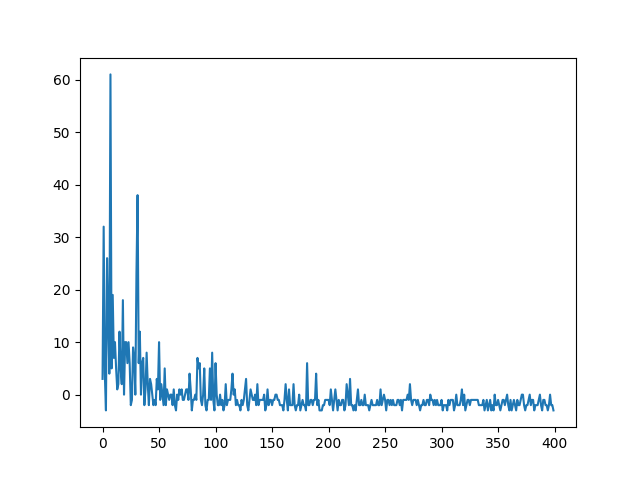
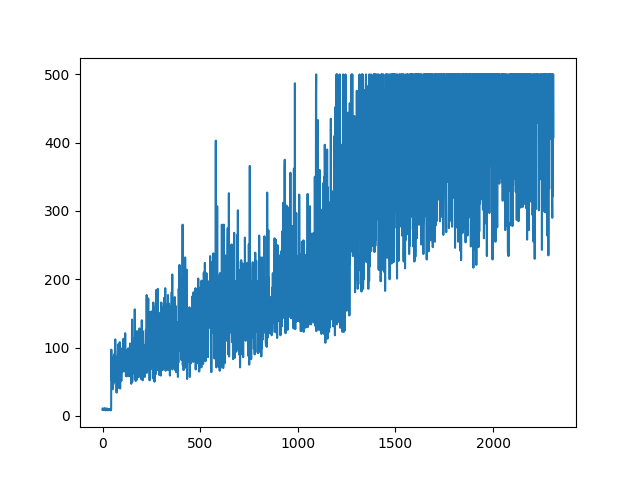
complete PPO

diff --git a/RL/PPO.py b/RL/PPO.py
@@ -4,37 +4,47 @@ import torch.nn as nn
 import torch.nn.functional as F
 import matplotlib.pyplot as plt
 from collections import deque
-import copy
 import gym
+from torch.utils.data.sampler import BatchSampler, SubsetRandomSampler
 
 
-device = torch.device("cuda:1" if torch.cuda.is_available() else "cpu")
+device = torch.device("cuda" if torch.cuda.is_available() else "cpu")
+
+def orthogonal_init(layer,gain=1.0):
+    nn.init.orthogonal_(layer.weight,gain=gain)
+    nn.init.constant_(layer.bias,0)
 
 class actor(nn.Module):
     def __init__(self,input_dim, ouput_dim,mid_dim = 128) -> None:
         super(actor,self).__init__()
-        self.net = nn.Sequential(
-            nn.Linear(input_dim,mid_dim),
-            nn.ReLU(),
-            nn.Linear(mid_dim,ouput_dim),
-            nn.ReLU()
-        )
+        self.linear1 = nn.Linear(input_dim,mid_dim)
+        self.linear2 = nn.Linear(mid_dim,mid_dim)
+        self.linear3 = nn.Linear(mid_dim,ouput_dim)
+        self.active = nn.ReLU()
+        orthogonal_init(self.linear1)
+        orthogonal_init(self.linear2)
+        orthogonal_init(self.linear3)
     def forward(self,x):
-        x = self.net(x)
-        probs = F.softmax(x,dim=1)
+        x = self.active(self.linear1(x))
+        x = self.active(self.linear2(x))
+        x = self.linear3(x)
+        probs = torch.softmax(x,dim=1)
         return probs
 
 class critic(nn.Module):
     def __init__(self,input_dim, ouput_dim,mid_dim = 128) -> None:
         super(critic,self).__init__()
-        self.net = nn.Sequential(
-            nn.Linear(input_dim,mid_dim),
-            nn.ReLU(),
-            nn.Linear(mid_dim,ouput_dim),
-            nn.ReLU()
-        )
+        self.linear1 = nn.Linear(input_dim,mid_dim)
+        self.linear2 = nn.Linear(mid_dim,mid_dim)
+        self.linear3 = nn.Linear(mid_dim,ouput_dim)
+        self.active = nn.ReLU()
+        orthogonal_init(self.linear1)
+        orthogonal_init(self.linear2)
+        orthogonal_init(self.linear3)
     def forward(self,x):
-        x = self.net(x)
+        x = self.active(self.linear1(x))
+        x = self.active(self.linear2(x))
+        x = self.linear3(x)
         return x
 class replay_buffer:
     def __init__(self,maxlen:int) -> None:
@@ -55,23 +65,30 @@ class PPO:
     def __init__(self,
                  action_space:int, 
                  state_space:int,  
+                 max_train_steps,
                  gamma = 0.99,
-                 update_freq = 512,
-                 epoch_num = 4,
-                 learning_rate = 1e-3,
+                 update_freq = 1024,
+                 mini_batch = 256,
+                 epoch_num = 10,
+                 learning_rate = 1e-4,
                  eplison_max = 0.2,
+                 lamda = 0.96,
                  entropy_coef = 0.01):
         self.actor = actor(state_space,action_space).to(device)
         self.critic = critic(state_space,1).to(device)
-        self.actor_optimizer = torch.optim.Adam(self.actor.parameters(), lr=learning_rate)
-        self.critic_optimizer = torch.optim.Adam(self.critic.parameters(),lr=learning_rate)
-        self.buffer = replay_buffer(100000)
+        self.actor_optimizer = torch.optim.Adam(self.actor.parameters(), lr=learning_rate,eps=1e-5)
+        self.critic_optimizer = torch.optim.Adam(self.critic.parameters(),lr=learning_rate,eps=1e-5)
+        self.buffer = replay_buffer(2048)
         self.gamma = gamma
-        self.update_freq = update_freq
+        self.batch_size = update_freq
         self.eplison_max = eplison_max
         self.epoch_num = epoch_num
         self.step = 0
         self.entropy_coef = entropy_coef
+        self.lamda = 0.96
+        self.lr = learning_rate
+        self.max_train_steps = max_train_steps
+        self.mini_batch = mini_batch
     def sample_action(self, state):
         state = torch.tensor(state, dtype=torch.float32,device=device).unsqueeze(dim=0)
         probs = self.actor(state)
@@ -79,95 +96,111 @@ class PPO:
         action = dist.sample()
         self.step += 1
         return action.item(), dist.log_prob(action).detach()
+    def evaluate(self, s):  # When evaluating the policy, we select the action with the highest probability
+        s = torch.unsqueeze(torch.tensor(s, dtype=torch.float,device=device), 0)
+        a_prob = self.actor(s).detach().cpu().numpy().flatten()
+        a = np.argmax(a_prob)
+        return a
     def update(self):
-        if not (self.step % self.update_freq == 0):
+        if not (self.step % self.batch_size == 0):
             return
-        # sample the action
-        old_states,next_state, old_actions, rewards,old_log_probs, old_next_states,  dones = self.buffer.sample()
+        # init
+        old_states,next_state, old_actions, rewards,old_log_probs,  dones = self.buffer.sample()
         old_states = torch.tensor(np.array(old_states), dtype=torch.float32, device=device)
         old_log_probs = torch.tensor(old_log_probs, device=device, dtype=torch.float32)
         old_actions = torch.tensor(np.array(old_actions),dtype=torch.float32,device=device)
         dones = torch.tensor(np.array(dones),dtype=torch.bool,device=device)
         next_state = torch.tensor(np.array(next_state),dtype=torch.float32,device=device)
         rewards = torch.tensor(np.array(rewards),dtype=torch.float32,device=device)
-        # calculate estimate reward
         
-        returns = self.critic(next_state).detach() * self.gamma + rewards
-        #normalize
-        returns = (returns - returns.mean()) / (returns.std() + 1e-8)
+        # calculate estimate reward
+        returns = []
+        gae = 0
+        with torch.no_grad():
+            values_state = self.critic(old_states)
+            values_next_state = self.critic(next_state)
+            deltas = rewards + self.gamma * values_next_state - values_state
+            for delta, done in zip(reversed(deltas.flatten().cpu().numpy()), reversed(dones.flatten().cpu().numpy())):
+                gae = delta + self.gamma * self.lamda * gae * (~done)
+                returns.insert(0,gae)
+            returns = torch.tensor(np.array(returns),dtype=torch.float32,device=device).view(-1,1)
+            value_target = returns + values_state
+            #normalize
+            returns = (returns - returns.mean()) / (returns.std() + 1e-8)
         for _ in range(self.epoch_num):
-            # compute advantage
-            values = self.critic(old_states) # detach to avoid backprop through the critic
-            advantage = returns - values.detach()
-            # get action probabilities
-            probs = self.actor(old_states)
-            dist = torch.distributions.Categorical(probs)
-            # get new action probabilities
-            new_probs = dist.log_prob(old_actions).detach()
-            # compute ratio (pi_theta / pi_theta__old):
-            ratio = torch.exp(new_probs - old_log_probs) # old_log_probs must be detached
-            # compute surrogate loss
-            surr1 = ratio * advantage
-            surr2 = torch.clamp(ratio, 1 - self.eplison_max, 1 + self.eplison_max) * advantage
-            # compute actor loss
-            actor_loss = -torch.min(surr1, surr2).mean() + self.entropy_coef * dist.entropy().mean()
-            # compute critic loss
-            critic_loss = (returns - values).pow(2).mean()
-            # take gradient step
-            self.actor_optimizer.zero_grad()
-            self.critic_optimizer.zero_grad()
-            actor_loss.backward()
-            critic_loss.backward()
+            for index in BatchSampler(SubsetRandomSampler(range(self.batch_size)),self.mini_batch,False):
+                
+                # get action probabilities
+                dist = torch.distributions.Categorical(probs=self.actor(old_states[index]))
+                dist_entropy = dist.entropy().view(-1, 1)
+                # get new action probabilities
+                new_probs= dist.log_prob(old_actions[index]).view(-1, 1) 
+                # compute ratio (pi_theta / pi_theta__old):
+                ratio = torch.exp(new_probs - old_log_probs[index])
+                # compute surrogate loss
+                surr1 = ratio * returns[index]
+                surr2 = torch.clamp(ratio, 1 - self.eplison_max, 1 + self.eplison_max) * returns[index]
+                # compute actor loss
+                actor_loss = (-torch.min(surr1, surr2) - self.entropy_coef * dist_entropy).mean()
+                # compute critic loss
+                values = self.critic(old_states[index]) # detach to avoid backprop through the critic
+                critic_loss = F.mse_loss(value_target[index],values)
+                # take gradient step
+                self.actor_optimizer.zero_grad()
+                self.critic_optimizer.zero_grad()
+                actor_loss.backward()
+                critic_loss.backward()
+
             self.actor_optimizer.step()
             self.critic_optimizer.step()
+        lr_now = self.lr * (1-self.step/self.max_train_steps)
+        for p in self.actor_optimizer.param_groups:
+            p['lr'] = lr_now
+        for p in self.critic_optimizer.param_groups:
+            p['lr'] = lr_now
         self.buffer.clear()    
+
+def evaluate_policy( env, agent):
+    times = 1
+    evaluate_reward = 0
+    for _ in range(times):
+        s = env.reset()
+
+        done = False
+        episode_reward = 0
+        while not done:
+            a = agent.evaluate(s)  # We use the deterministic policy during the evaluating
+            s_, r, done, _ = env.step(a)
+            episode_reward += r
+            s = s_
+        evaluate_reward += episode_reward
+
+    return evaluate_reward / times
+
 def train():
-    env = gym.make('CartPole-v0')
+    env = gym.make('CartPole-v1')
+    train_steps = int(60000)
     state_size = env.observation_space.shape[0]
     action_size = env.action_space.n
-    agent = PPO(action_size,state_size)
-    max_step = 200
-    n_episode = 400
+    agent = PPO(action_size,state_size,max_train_steps=train_steps)
     episode_reward = []
-    for episode in range (n_episode):
+    step = 0
+    episode = 0
+    while step < train_steps:
         state = env.reset()
         done = False
-        step = 0
-        total_reward = 0
-        while step < max_step and not done:
+        while not done:
             actions,logprob = agent.sample_action(state)
             next_state, reward, done, _ = env.step(actions)
-            if done:
-                reward = -10
             agent.buffer.append((state,next_state,actions,reward,logprob,done))
             agent.update()
             state = next_state
-            total_reward += reward
             step += 1
-        episode_reward.append(total_reward)
-        if episode % 20 == 0:
-            print(f'episode:{episode}  reward:{total_reward}')
-            '''
-            
-            state = env.reset()
-            done = False
-            total_reward = 0
-            step = 0
-            while step < max_step:
-                actions = agent.sample_action(state)
-                next_state, reward, done, _ = env.step(actions)
-                state = next_state
-                total_reward += reward
-                if done:
-                    break
-                step += 1
-            if total_reward> max_reward:
-                print("update")
-                output_agnet = copy.deepcopy(agent)
-                max_reward = total_reward
-            else:
-                agent = copy.deepcopy(output_agnet)
-            '''
+        episode += 1
+        if episode % 1 == 0:
+            eps_reward = evaluate_policy(env,agent)
+            print(f'episode:{episode} step:{step} reward:{eps_reward}')
+            episode_reward.append(eps_reward)
     plt.plot(episode_reward)
     plt.savefig('PPO.png')
 train()
